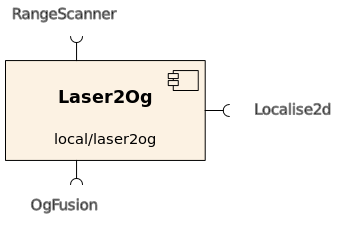
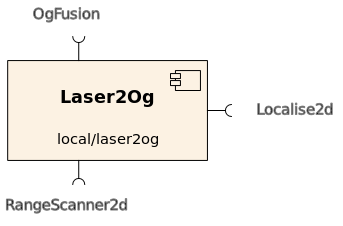
RangeScanner2d was still refered to as RangeScanner in def and dox files.
git-svn-id: https://orca-robotics.svn.sf.net/svnroot/orca-robotics/orca/trunk@1423 534d5172-be3c-0410-9a3e-ccaa6372a113

diff --git a/src/components/laser2og/handler.cpp b/src/components/laser2og/handler.cpp
@@ -61,7 +61,7 @@ Handler::init()
     {
         try
         {
-            orcaice::connectToInterfaceWithTag<orca::RangeScanner2dPrx>( context_, rangeScannerPrx_, "RangeScanner" );
+            orcaice::connectToInterfaceWithTag<orca::RangeScanner2dPrx>( context_, rangeScannerPrx_, "Observations" );
             break;
         }
         catch ( const orcaice::NetworkException & e )
